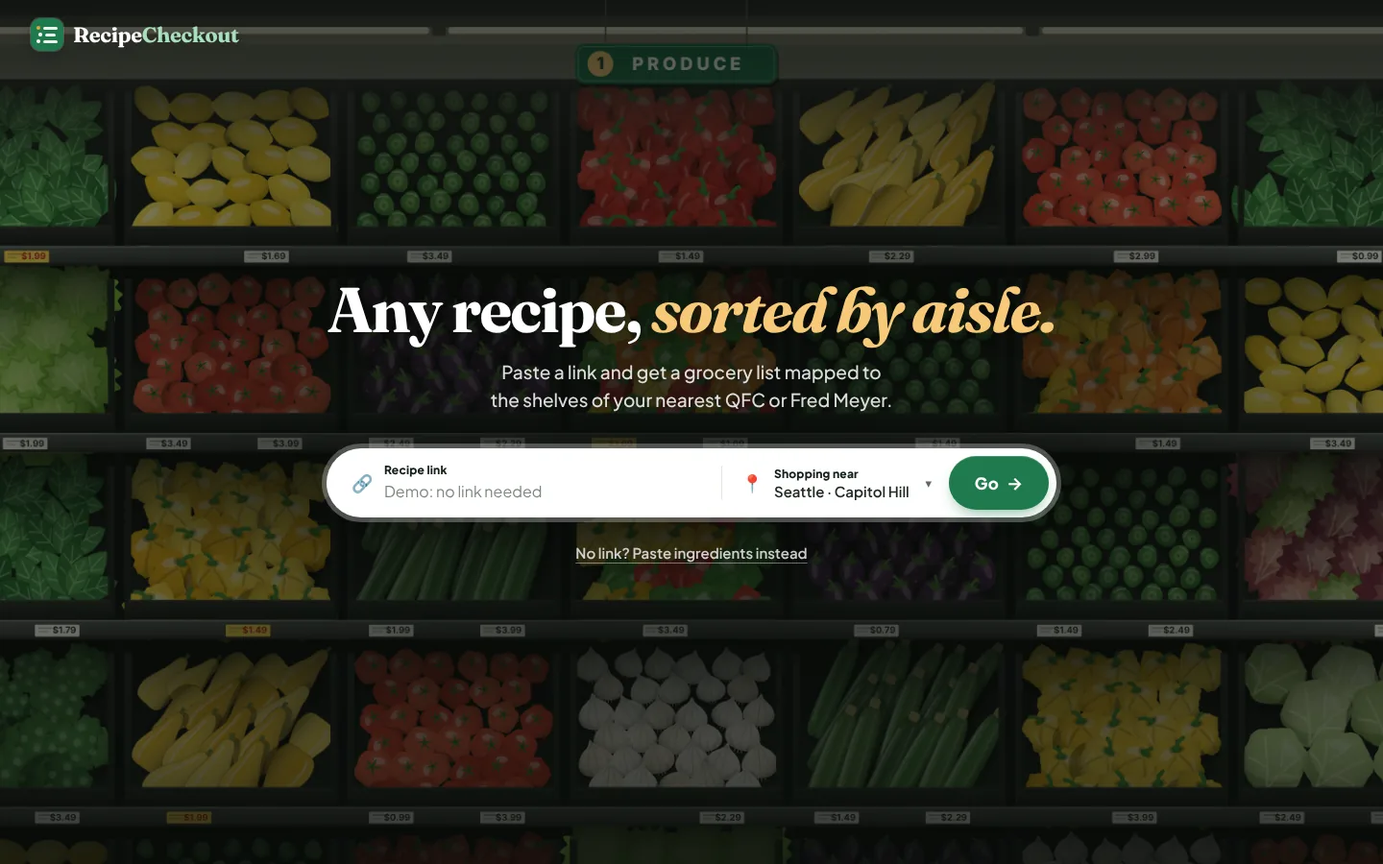
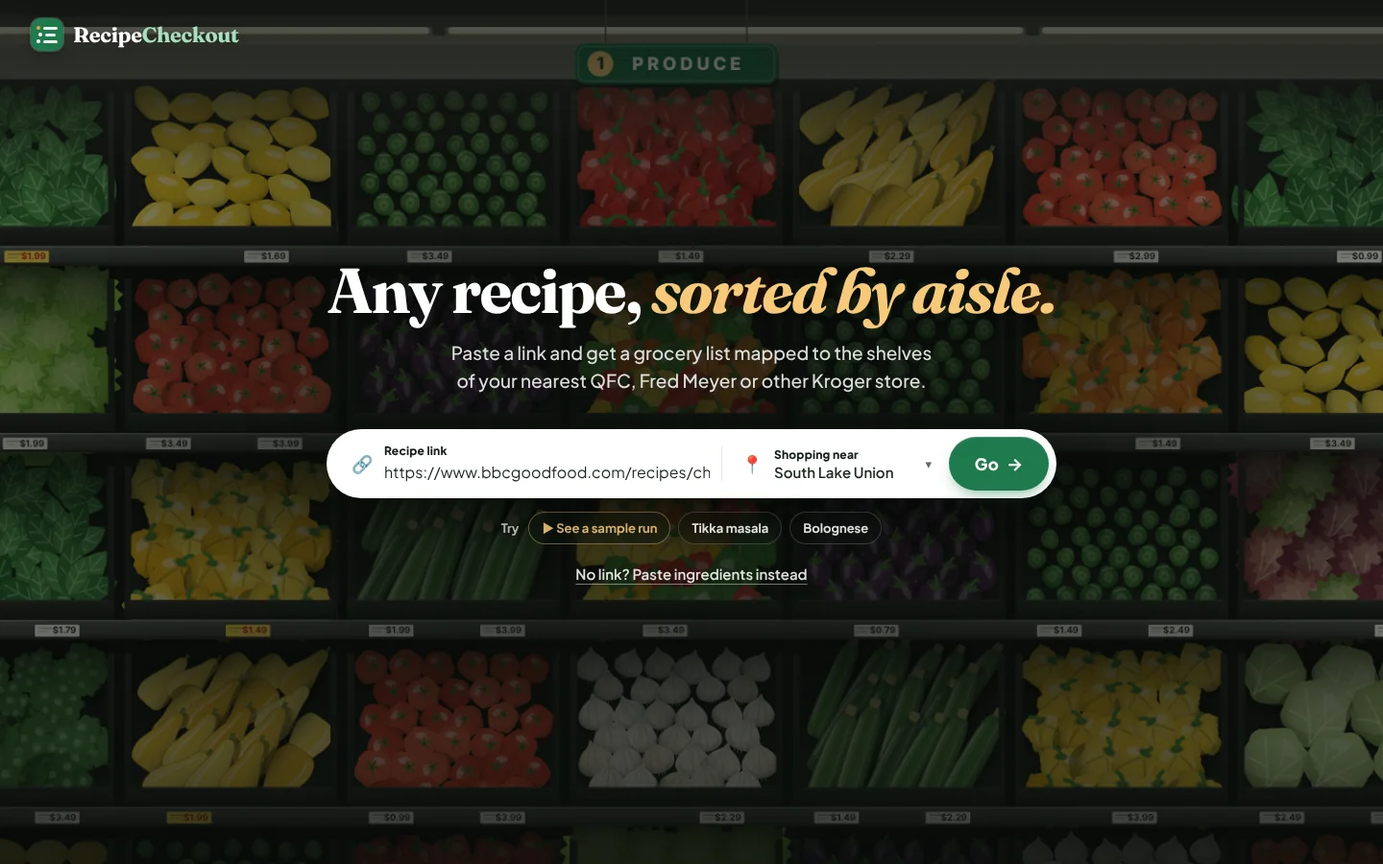
Deck: sync slides to the re-recorded South Lake Union demo run
Claude-Session: https://claude.ai/code/session_01AJf85JmqzvYmp3L4rD7mge

Changed region(s): [[0.2188, 0.3111, 0.7812, 0.6844]]

diff --git a/public/pitch/index.html b/public/pitch/index.html
@@ -433,6 +433,7 @@ h2 em,h1 em{font-weight:700;color:var(--green)}
 .cartbtn{display:flex;align-items:center;gap:12px;border:2.5px dashed var(--green-2);color:var(--green-dk);background:#F2F8F3;border-radius:999px;padding:14px 22px;font:800 24px/1 var(--sans);white-space:nowrap}
 .cartbtn svg{width:28px;height:28px;flex:none}
 .listp .cartnext small{font:600 19px/1.2 var(--sans);letter-spacing:0;color:var(--muted);text-align:right}
+.row .it .cm{display:inline-block;font:700 17px/1 var(--sans);font-style:normal;color:#7A5200;background:#FBF0DC;border:1.5px solid #F2D49A;border-radius:999px;padding:3px 8px;margin-left:6px;vertical-align:1px}
 .row .it .alt{display:inline-block;font:700 18px/1 var(--sans);font-style:normal;color:#7A5200;background:#FBF0DC;border-radius:999px;padding:4px 9px;margin-left:8px;vertical-align:2px}
 .stop.next .dot{border-style:dashed}
 .slide.active .stop.next .dot{background:rgba(247,201,120,.18);border-color:var(--saffron)}
@@ -512,7 +513,7 @@ body.notes-open #notes{transform:none}
       </div>
       <div class="f loc">
         <svg class="ico" viewBox="0 0 24 24"><path d="M12 22s7-6.2 7-12a7 7 0 1 0-14 0c0 5.8 7 12 7 12z" fill="#D9472B"/><circle cx="12" cy="10" r="2.6" fill="#fff"/></svg>
-        <div><small>Shopping near</small><div class="v">Seattle · Capitol Hill</div></div>
+        <div><small>Shopping near</small><div class="v" data-run="location">South Lake Union</div></div>
       </div>
       <div class="go" id="go">Go <svg width="26" height="26" viewBox="0 0 24 24" fill="none" stroke="#fff" stroke-width="3" stroke-linecap="round" stroke-linejoin="round"><path d="M5 12h14M13 6l6 6-6 6"/></svg></div>
     </div>
@@ -526,14 +527,14 @@ body.notes-open #notes{transform:none}
   <div class="cols">
     <div class="pains">
       <div class="pain" data-in="left" style="--d:.3s"><div class="n">1</div><div><h3>Cook-speak isn't store-speak</h3><p><q>150 ml double cream</q>, <q>coriander leaves</q>, <q>tikka masala paste</q>: which product is that, at <i>this</i> store?</p></div></div>
-      <div class="pain" data-in="left" style="--d:.45s"><div class="n">2</div><div><h3>Recipe order isn't aisle order</h3><p>Aisle 11, produce, aisle 5, produce again, meat, aisle 7, back to aisle 5…</p></div></div>
+      <div class="pain" data-in="left" style="--d:.45s"><div class="n">2</div><div><h3>Recipe order isn't aisle order</h3><p>Aisle 1, produce, meat, aisle 9, back to aisle 1, produce again…</p></div></div>
       <div class="pain" data-in="left" style="--d:.6s"><div class="n">3</div><div><h3>Price and stock are a surprise</h3><p>You find out it's out of stock, or the wrong jar, standing at the shelf.</p></div></div>
-      <div class="walk" data-in="pop" style="--d:.9s"><div class="x2">≈2<span class="times">×</span></div><div><b>the walking</b><span>Same <span data-run="items">11</span> items, recipe order vs aisle order, on this floor plan.</span></div></div>
+      <div class="walk" data-in="pop" style="--d:.9s"><div class="x2">≈2<span class="times">×</span></div><div><b>the walking</b><span>Same <span data-run="mapItems">9</span> items, recipe order vs aisle order, on this floor plan.</span></div></div>
     </div>
     <div class="mapcard" style="width:860px;--d:.2s" data-in="pop">
-      <div class="mh"><b>Tikka masala, shopped in recipe order</b><span class="chip" style="background:var(--tomato-soft);color:var(--tomato)"><span data-run="items">11</span>&nbsp;items</span></div>
+      <div class="mh"><b>Tikka masala, shopped in recipe order</b><span class="chip" style="background:var(--tomato-soft);color:var(--tomato)"><span data-run="mapItems">9</span>&nbsp;items</span></div>
       <div id="map-messy"></div>
-      <div class="cap">Illustrative floor plan · real aisles from <span data-run="store0">QFC Broadway Market</span></div>
+      <div class="cap">Illustrative floor plan · real aisles from <span data-run="store0">QFC Uptown</span></div>
     </div>
   </div>
 </section>
@@ -548,10 +549,10 @@ body.notes-open #notes{transform:none}
     <div class="arrow a1"><svg viewBox="0 0 60 30"><path d="M2 15h52M42 4l13 11-13 11"/></svg></div>
     <div class="mc ai"><div class="lab">✦ AI · shoppable intent</div><div class="x"><div class="term" id="m-term"></div><div class="meta" id="m-meta"></div></div></div>
     <div class="arrow a2"><svg viewBox="0 0 60 30"><path d="M2 15h52M42 4l13 11-13 11"/></svg></div>
-    <div class="mc prod"><div id="m-sign"></div><div class="pinfo x"><div class="lab" data-run="store0">QFC Broadway Market</div><div class="pn" id="m-pn"></div><div class="pd" id="m-pd"></div><div class="pr"><span class="price" id="m-price"></span><span id="m-stock"></span></div></div></div>
+    <div class="mc prod"><div id="m-sign"></div><div class="pinfo x"><div class="lab" data-run="store0">QFC Uptown</div><div class="pn" id="m-pn"></div><div class="pd" id="m-pd"></div><div class="pr"><span class="price" id="m-price"></span><span id="m-stock"></span></div></div></div>
   </div>
   <div class="dots" id="m-dots" data-in="fade" style="--d:.6s"></div>
-  <div class="fixcap" data-in="fade" style="--d:.7s">Real matches from a recorded run at <span data-run="store0">QFC Broadway Market</span>, Seattle</div>
+  <div class="fixcap" data-in="fade" style="--d:.7s">Real matches from a recorded run at <span data-run="store0">QFC Uptown</span>, Seattle</div>
 </section>
 
 <!-- 4 · HOW IT WORKS -->
@@ -570,15 +571,15 @@ body.notes-open #notes{transform:none}
       <div class="num gold">2</div>
       <h3>One AI call</h3>
       <p>Claude Haiku turns every line into a shoppable intent.</p>
-      <div class="code"><div class="s">"4 onions, roughly chopped"</div><dl><dt class="k">term</dt><dd>yellow onions</dd><dt class="k">dept</dt><dd>produce</dd><dt class="r">avoid</dt><dd>rings · soup · powder</dd><dt class="k">staple</dt><dd>no</dd></dl></div>
+      <div class="code"><div class="s">"4 onions roughly chopped"</div><dl><dt class="k">term</dt><dd>yellow onions</dd><dt class="k">dept</dt><dd>produce</dd><dt class="r">avoid</dt><dd>rings · soup · powder</dd><dt class="k">staple</dt><dd>no</dd></dl></div>
       <div class="foot"><span class="chip gold">⏱ ~6–9 s per recipe</span></div>
     </div>
     <div class="step" data-in style="--d:.65s">
       <div class="num">3</div>
       <h3>Live store catalog</h3>
       <p>Kroger's official API, every item in parallel: aisle or department, shelf where listed, price, stock.</p>
-      <div class="mprod"><div class="minis"><div class="sign"><span><small>AISLE</small><b>12</b><i>LEFT</i></span></div></div><div><b>Horizon Organic Heavy Whipping Cream</b><span>Left side · shelf 6</span><div class="r"><b>$7.99</b><span class="stock">In stock</span></div></div></div>
-      <div class="foot"><span class="chip">⏱ ~1–2 s per store</span></div>
+      <div class="mprod"><div class="minis"><div class="sign"><span><small>AISLE</small><b>1</b><i>LEFT</i></span></div></div><div><b>Horizon Organic Heavy Whipping Cream</b><span>Left side · shelf 5</span><div class="r"><b>$7.99</b><span class="stock">In stock</span></div></div></div>
+      <div class="foot"><span class="chip">⏱ ~2 s per store</span></div>
     </div>
     <div class="step" data-in style="--d:.85s">
       <div class="num">4</div>
@@ -599,14 +600,14 @@ body.notes-open #notes{transform:none}
       <h2 data-in style="--d:.08s">Same trip, <em>one clean loop.</em></h2>
       <div class="mapcard" data-in="pop" style="--d:.2s">
         <div id="map-clean"></div>
-        <div class="cap">Illustrative floor plan · real aisles from the recorded run</div>
+        <div class="cap">Illustrative floor plan · real aisles at <span data-run="store0">QFC Uptown</span></div>
       </div>
     </div>
     <div class="listp" data-in="right" style="--d:.3s">
-      <div class="store"><div class="qfc">QFC</div><div><b data-run="store0">QFC Broadway Market</b><span id="store0-meta">0.1 mi · 417 Broadway E, Seattle</span></div><div class="found" id="found"><i>✓</i><span>11 of 11 found<br>at the first store</span></div></div>
+      <div class="store"><div class="qfc">QFC</div><div><b data-run="store0">QFC Uptown</b><span id="store0-meta">0.5 mi · 500 Mercer St, Seattle</span></div><div class="found" id="found"><i>✓</i><span>11 of 11 found<br>9 here · +2 next store</span></div></div>
       <div class="bar"><span>IN WALKING ORDER</span><span><span data-run="items">11</span> ITEMS</span></div>
       <div id="rows"></div>
-      <div class="total"><div><small>ESTIMATED TOTAL</small><div class="big" id="total" data-count="54.79" data-prefix="$" data-dec="2">$54.79</div></div>
+      <div class="total"><div><small>ESTIMATED TOTAL</small><div class="big" id="total" data-count="58.20" data-prefix="$" data-dec="2">$58.20</div></div>
         <div class="cartnext" aria-label="Coming next, not built yet: send to pickup cart"><span class="nexttag">Next build · not live yet</span><div class="cartbtn"><svg viewBox="0 0 24 24" fill="none" stroke="currentColor" stroke-width="2.2" stroke-linecap="round" stroke-linejoin="round"><path d="M3 4h2l2.4 11.2a1.5 1.5 0 0 0 1.5 1.2h8.6a1.5 1.5 0 0 0 1.5-1.1L21 8H6.2"/><circle cx="9.5" cy="20" r="1.3"/><circle cx="17.5" cy="20" r="1.3"/></svg>Send to pickup cart</div><small>Kroger Cart API · pay with your card at pickup</small></div>
       </div>
     </div>
@@ -627,7 +628,7 @@ body.notes-open #notes{transform:none}
       <div class="lid"><div class="scr" id="lapscr"><a class="demo" href="https://recipecheckout.vercel.app/?demo=1&amp;clean=1" target="_blank" rel="noopener" aria-label="Open the live demo (recorded real run)"></a>
         <img class="on" src="/pitch/assets/desk-home.webp" alt="RecipeCheckout home: Any recipe, sorted by aisle, with a recipe link field and location">
         <img src="/pitch/assets/desk-review.webp" alt="Review screen: ingredient cards with pantry staples unchecked">
-        <img src="/pitch/assets/desk-results.webp" alt="Results: QFC Broadway Market list sorted by aisle with prices">
+        <img src="/pitch/assets/desk-results.webp" alt="Results: QFC Uptown list sorted by aisle with prices, plus 2 items from QFC Broadway Market">
       </div></div>
       <div class="base"></div>
     </div>
@@ -790,27 +791,28 @@ let cur = -1;
    Also check by hand: MORPH (slide 3 examples), the slide 4 sample
    product card (.mprod), and the screenshots in /pitch/assets/.
    ============================================================ */
-const RUN = {
+const RUN = {               // source: lib/client/demo-run.json + live /?demo=1&clean=1 results page
+  location: 'South Lake Union', // slide 1 search-bar mock
   ingredients: 12,          // lines in the recipe (slide 4 card)
-  items: 11,                // items shopped after pantry staples are unchecked
-  total: 54.79,             // estimated total, dollars
+  items: 11,                // items shopped after pantry staples are unchecked (vegetable oil)
+  total: 58.20,             // estimated total, dollars ($41.72 Uptown + $16.48 Broadway Market)
   stores: [                 // nearest first; found = items bought at that store
-    { name: 'QFC Broadway Market', logo: 'QFC', dist: '0.1 mi', addr: '417 Broadway E, Seattle', found: 11 },
-    { name: 'QFC Harvard Market',  logo: 'QFC', dist: '0.5 mi', found: 0 },
-    { name: 'QFC Uptown',          logo: 'QFC', dist: '1.2 mi', found: 0 },
+    { name: 'QFC Uptown',          logo: 'QFC', dist: '0.5 mi', addr: '500 Mercer St, Seattle', found: 9 },
+    { name: 'QFC Broadway Market', logo: 'QFC', dist: '0.7 mi', found: 2 },
+    { name: 'QFC Harvard Market',  logo: 'QFC', dist: '1.1 mi', found: 0 },
   ],
 };
-/* Slide 5 rows, in walking order: [kind, sign value, sign label, item(s), product(s), price, map keys, storeIndex?]
+/* Slide 5 rows, in walking order: [kind, sign value, sign label, item(s), product(s) (HTML ok), price, map keys, storeIndex?]
    kind: 'sign' (aisle) | 'wall' | 'meat' | 'veg'. storeIndex (optional, default 0) marks an item that
-   fell through to RUN.stores[i]; it gets a small "from <store>" tag. Map keys must exist in ITEMS below. */
+   fell through to RUN.stores[i]; it gets a small "from <store>" tag and no map pin (the map is store 0).
+   Map keys must exist in ITEMS below; the clean route's pin order follows these rows. */
 const ROWS = [
-  ['sign','5','LEFT','Tikka masala paste · Mango chutney',"Patak's simmer sauce · Indianlife chutney",'$16.48',['paste','chutney']],
-  ['sign','7','RIGHT','Diced tomatoes · Tomato purée','Kroger petite diced · Hunt’s purée','$3.78',['tomatoes','puree']],
-  ['sign','11','LEFT','Butter','Kroger salted butter sticks','$7.99',['butter']],
-  ['sign','12','LEFT','Heavy cream','Horizon Organic heavy whipping cream','$7.99',['cream']],
-  ['wall','🧱','Back wall','Plain yogurt','Mountain High plain yogurt tub','$5.49',['yogurt']],
+  ['veg','🥬','Produce','Onions · Red pepper · Cilantro','Jumbo onions · hothouse pepper · organic cilantro','$4.98',['onions','pepper','cilantro']],
+  ['sign','1','LEFT','Butter · Heavy cream · Yogurt','Kroger butter · Horizon Organic cream · Mountain High','$21.47',['butter','cream','yogurt']],
+  ['sign','9','RIGHT','Diced tomatoes · Tomato purée','Kroger petite diced · Cento purée','$7.78',['tomatoes','puree']],
   ['meat','🥩','Meat','Chicken breasts','Simple Truth natural chicken breasts','$7.49',['chicken']],
-  ['veg','🥬','Produce','Onions · Red pepper · Cilantro','Jumbo yellow onions · organic bell pepper','$5.57',['onions','pepper','cilantro']],
+  ['sign','5','LEFT','Tikka masala paste',"Patak's simmer sauce <em class=\"cm\">Closest match</em>",'$6.49',[],1],
+  ['sign','5','LEFT','Mango chutney','Indianlife medium mango chutney','$9.99',[],1],
 ];
 const S0 = RUN.stores[0];
 const money = v => '$' + v.toFixed(2);
@@ -826,12 +828,12 @@ const NOTES = [
   "Hi, we're RecipeCheckout: <b>any recipe, sorted by aisle.</b> Paste a recipe link and every ingredient is located at your nearest grocery store, with live price and stock.",
   "Recipes are written for cooks, not stores. Which product is \"double cream\" here? And recipe order isn't aisle order: this red line is that trip, <b>about twice the walking</b>. Then you find out it's out of stock at the shelf." +
     "<span class=\"qa\">If asked: ≈2× = the two routes measured on this illustrative plan ({LM} vs {LC} units); the aisles are real.</span>",
-  "So: <b>paste a recipe, walk the store once.</b> Take \"150 ml double cream\". The AI makes it heavy cream, in dairy, never whipped topping or creamer. Then we find the real product at your store: aisle 12, left side, shelf 6, $7.99, in stock.",
+  "So: <b>paste a recipe, walk the store once.</b> Take \"150 ml double cream\". The AI makes it heavy cream, in dairy, never whipped topping or creamer. Then we find the real product at your store: aisle 1, left side, shelf 5, $7.99, in stock.",
   "Four steps. We read the recipe, with fallbacks for sites that block bots. <b>One</b> Claude Haiku call turns every line into a search term. Kroger's API searches your nearest store, all items in parallel. We sort by aisle, and misses fall through to the next store.",
-  `Same recipe, one clean loop. A <b>real recorded run</b>${fellThrough.length ? '' : ` at ${S0.name}`}: ${foundAll} of ${RUN.items} found, ${splitText}, about ${money(RUN.total)}. That dashed button is our next build.`,
+  `Same recipe, one clean loop. A <b>real recorded run</b>${fellThrough.length ? '' : ` at ${S0.name}`}: ${foundAll} of ${RUN.items} found, ${splitText}, about ${money(RUN.total)}. The simmer sauce is flagged "closest match". That dashed button is our next build.`,
   `<span class="cue">[Click the laptop or press D to open the <a href="${DEMO_URL}" target="_blank" rel="noopener">demo replay</a>. Backup: press V for the <a href="/demo" target="_blank" rel="noopener">/demo video</a>. About 30 s.]</span> ` +
     "It's live. This is a replay of a real run, so it's fast and wifi-proof. Start a list… check ingredients: pantry staples start unchecked… find in stores… and here's the list, by aisle, with price and stock. Scan the code to run any recipe. No sign-up.",
-  `Two numbers: <b>one AI call per recipe, about a tenth of a cent</b>, and 97% of about 120 products we searched at ${S0.name} had a shelf location. Blocked sites fall through to Wayback, a reader proxy, then paste.` +
+  `Two numbers: <b>one AI call per recipe, about a tenth of a cent</b>, and 97% of about 120 products we searched at QFC Broadway Market had a shelf location. Blocked sites fall through to Wayback, a reader proxy, then paste.` +
     "<span class=\"qa\">If asked, stack: Expo Router + React Native Web, Vercel functions, Kroger Locations &amp; Products APIs, Claude Haiku 5.5 via OpenRouter, offline demo replay. Product picking is rules, not AI: term words, avoid words, department, aisle, stock.</span>",
   "For Visa's <b>Reimagine Shopping</b>: discovery starts from a recipe, decisions get the right product with live price and stock, and it's personal to your store and pantry. Checkout, honestly: today it's an estimated total. Our first build after DubHacks is <b>Send to pickup cart</b> through Kroger's public Cart API; you pay with your card at pickup.",
   "Our user: the home cook who finds recipes online. Revenue: \"shop this recipe\" links for creators, clearly labelled sponsored swaps, and affiliate fees on pickup orders. Creators are distribution. <b>Next to validate:</b> will creators add the link, and will grocers pay?",
@@ -847,7 +849,7 @@ window.__NOTES_WORDS__ = (() => {
 /* fill RUN numbers into the slides */
 document.querySelectorAll('[data-run]').forEach(el => {
   const k = el.dataset.run;
-  el.textContent = k === 'store0' ? S0.name : RUN[k];
+  el.textContent = k === 'store0' ? S0.name : k === 'mapItems' ? S0.found : RUN[k];
 });
 document.getElementById('runs').innerHTML = RUN.stores.map((st, i) =>
   `<div class="run${st.found ? '' : ' dim'}"><span class="q">${st.logo}</span><div><b>${st.name}</b><em>${st.dist} · ` +
@@ -868,11 +870,15 @@ function qrSVG(){
 document.querySelectorAll('[data-qr]').forEach(el => el.innerHTML = qrSVG());
 
 /* ---------- store map (shared by slides 2 and 5) ---------- */
-const AX = k => 90 + (k - 1) * 56;
-const ITEMS = { // positions on the illustrative floor plan (aisles and sections from the recorded run)
-  butter:[650,325], onions:[850,612], paste:[314,250], pepper:[780,612], chicken:[885,290], tomatoes:[426,205],
-  puree:[426,255], chutney:[314,200], cream:[706,140], yogurt:[800,90], cilantro:[710,612]
+const AX = k => 146 + (k - 1) * 56;
+const ITEMS = { // pins on the illustrative floor plan; aisles/sections are the real ones at RUN.stores[0] (QFC Uptown)
+  onions:[88,430], pepper:[88,330], cilantro:[88,230],          // produce (left wall)
+  butter:[146,200], cream:[146,300], yogurt:[146,400],          // aisle 1
+  tomatoes:[594,400], puree:[594,300],                          // aisle 9
+  chicken:[885,290]                                             // meat (right wall)
 };
+const RECIPE_ORDER = ['butter','onions','pepper','chicken','tomatoes','puree','cream','yogurt','cilantro']; // store-0 items in recipe order
+const HIT_AISLES = [1, 9];
 function roundedPath(pts, r){
   let d = `M${pts[0][0]} ${pts[0][1]}`;
   for (let i = 1; i < pts.length - 1; i++){
@@ -888,30 +894,31 @@ function roundedPath(pts, r){
 }
 function mapSVG(kind){
   const clean = kind === 'clean';
-  const hit = [5,7,11,12];
+  const hit = HIT_AISLES;
   let s = `<svg class="map" viewBox="0 0 1000 720" aria-hidden="true">`;
   s += `<rect class="m-floor" x="2" y="2" width="996" height="716" rx="26"/>`;
   s += `<rect class="m-back" x="20" y="18" width="960" height="50" rx="12"/><text class="m-lbl" x="40" y="50" fill="#6E6150">BACK WALL</text>`;
   s += `<rect class="m-meat" x="922" y="84" width="58" height="400" rx="12"/><text class="m-lbl" fill="#9F2A1C" transform="translate(958 284) rotate(90)" text-anchor="middle">MEAT</text>`;
-  s += `<rect class="m-veg" x="680" y="556" width="300" height="146" rx="16"/><text class="m-lbl" fill="#1E6B3A" x="830" y="686" text-anchor="middle">PRODUCE</text>`;
-  for (const [cx,c] of [[740,'#9BCB8F'],[812,'#E9A0A0'],[884,'#F2D27A'],[950,'#9BCB8F']]) s += `<ellipse cx="${cx}" cy="648" rx="26" ry="9" fill="${c}" opacity=".55"/>`;
-  for (let g = 0; g <= 14; g++) s += `<rect class="m-shelf" x="${62+56*g-8}" y="112" width="16" height="352" rx="5"/>`;
+  s += `<rect class="m-veg" x="20" y="84" width="50" height="400" rx="12"/><text class="m-lbl" fill="#1E6B3A" transform="translate(45 284) rotate(-90)" text-anchor="middle">PRODUCE</text>`;
+  for (const [cy,c] of [[132,'#9BCB8F'],[436,'#E9A0A0']]) s += `<ellipse cx="45" cy="${cy}" rx="9" ry="22" fill="${c}" opacity=".55"/>`;
+  for (let g = 0; g <= 13; g++) s += `<rect class="m-shelf" x="${110+56*g}" y="112" width="16" height="352" rx="5"/>`;
   let labels = '';
-  for (let k = 1; k <= 14; k++){
+  for (let k = 1; k <= 13; k++){
     const cls = hit.includes(k) ? (clean ? 'hit' : 'miss') : '';
     labels += `<g class="m-al ${cls}"><rect x="${AX(k)-15}" y="476" width="30" height="24" rx="6"/><text x="${AX(k)}" y="493">${k}</text></g>`;
   }
   s += `<rect class="m-door" x="22" y="626" width="112" height="74" rx="14"/><text class="m-lbl" x="78" y="670" fill="#8A8F84" text-anchor="middle" style="font-size:15px">ENTER</text>`;
-  for (let i = 0; i < 4; i++) s += `<rect class="m-reg" x="${300+78*i}" y="592" width="48" height="58" rx="9"/>`;
-  s += `<text class="m-lbl" x="453" y="686" fill="#8A8F84" text-anchor="middle" style="font-size:15px">CHECKOUT</text>`;
+  for (let i = 0; i < 4; i++) s += `<rect class="m-reg" x="${520+78*i}" y="592" width="48" height="58" rx="9"/>`;
+  s += `<text class="m-lbl" x="661" y="686" fill="#8A8F84" text-anchor="middle" style="font-size:15px">CHECKOUT</text>`;
+  s += `<rect class="m-door" x="866" y="626" width="112" height="74" rx="14"/><text class="m-lbl" x="922" y="670" fill="#8A8F84" text-anchor="middle" style="font-size:15px">EXIT</text>`;
 
   let pts, order;
-  if (clean){
-    pts = [[78,626],[78,525],[314,525],[314,90],[426,90],[426,525],[644,525],[644,320],[656,320],[656,525],[706,525],[706,90],[885,90],[885,612],[600,612]];
-    order = ['paste','chutney','tomatoes','puree','butter','cream','yogurt','chicken','onions','pepper','cilantro'];
-  } else {
-    pts = [[78,626],[78,532],[644,532],[644,325],[656,325],[656,520],[850,520],[850,612],[838,612],[838,544],[320,544],[320,250],[308,250],[308,556],[780,556],[780,612],[885,612],[885,290],[873,290],[873,512],[432,512],[432,205],[420,205],[420,255],[420,98],[314,98],[314,200],[326,200],[326,82],[706,82],[706,140],[718,140],[718,82],[897,82],[897,600],[600,600]];
-    order = ['butter','onions','paste','pepper','chicken','tomatoes','puree','chutney','cream','yogurt','cilantro'];
+  if (clean){ // aisle order, as the app lists QFC Uptown: produce → aisle 1 → aisle 9 → meat → checkout
+    pts = [[88,650],[88,90],[146,90],[146,525],[594,525],[594,90],[885,90],[885,560],[700,560],[700,600]];
+    order = ROWS.filter(r => !r[7]).flatMap(r => r[6]);
+  } else {    // recipe order
+    pts = [[88,650],[88,540],[140,540],[140,200],[152,200],[152,532],[100,532],[100,430],[100,330],[100,98],[880,98],[880,290],[870,290],[870,540],[600,540],[600,400],[600,300],[600,82],[158,82],[158,300],[158,400],[158,548],[76,548],[76,230],[90,230],[90,556],[700,556],[700,600]];
+    order = RECIPE_ORDER;
   }
   const d = roundedPath(pts, clean ? 18 : 14);
   if (clean){
@@ -982,7 +989,7 @@ function playRoute(slide, dur){
     head.setAttribute('cx', pt.x); head.setAttribute('cy', pt.y);
     head.style.opacity = t > 0 && t < 1 ? 1 : 0;
     pins.forEach((p,i) => p.classList.toggle('on', t >= at[i] - 0.004));
-    rows.forEach(r => { const ks = r.dataset.keys.split(' '); const firstPin = pins.find(p => p.dataset.k === ks[0]); r.classList.toggle('on', firstPin && t >= at[pins.indexOf(firstPin)] - 0.004); });
+    rows.forEach(r => { const ks = r.dataset.keys.split(' '); const firstPin = pins.find(p => p.dataset.k === ks[0]); r.classList.toggle('on', firstPin ? t >= at[pins.indexOf(firstPin)] - 0.004 : t >= 0.999); });
   };
   if (RM){ set(1); return; }
   const ease = t => t < .5 ? 2*t*t : 1 - Math.pow(-2*t+2, 2)/2;
@@ -1032,11 +1039,11 @@ function typeUrl(){
 }
 
 /* ---------- slide 3: recipe line → intent → product ---------- */
-const MORPH = [
-  {raw:'150ml <mark>double cream</mark>', term:'heavy cream', meta:['🧈 dairy'], avoid:['whipped topping','creamer','sour'], pn:'Horizon Organic Heavy Whipping Cream', pd:'1 pt · Left side · shelf 6', price:'$7.99', stock:true, sign:['sign','12','LEFT']},
-  {raw:'chopped <mark>coriander leaves</mark>, to serve', term:'cilantro', meta:['🥬 produce'], avoid:['seeds','dried','soap'], pn:'Cilantro', pd:'1 ct · Produce section', price:'$1.29', stock:true, sign:['veg','🥬','Produce']},
-  {raw:'2 x 400g cans <mark>chopped tomatoes</mark>', term:'diced tomatoes', meta:['🥫 pantry'], avoid:['sauce','paste','soup'], pn:'Kroger® Petite Diced Tomatoes in Tomato Juice', pd:'14.5 oz · Right side · shelf 7', price:'$1.29', stock:true, sign:['sign','7','RIGHT']},
-  {raw:'8 boneless, skinless <mark>chicken breasts</mark> cut into 2.5cm cubes', term:'chicken breasts', meta:['🥩 meat'], avoid:['broth','seasoning','nuggets'], pn:'Simple Truth Natural Chicken Breasts', pd:'1 lb · Meat department', price:'$7.49', stock:true, sign:['meat','🥩','Meat']},
+const MORPH = [ // real picks at QFC Uptown in the recorded run (lib/client/demo-run.json)
+  {raw:'150ml <mark>double cream</mark>', term:'heavy cream', meta:['🧈 dairy'], avoid:['whipped topping','creamer','sour'], pn:'Horizon Organic Heavy Whipping Cream', pd:'1 pt · Left side · shelf 5', price:'$7.99', stock:true, sign:['sign','1','LEFT']},
+  {raw:'chopped <mark>coriander leaves</mark>, to serve', term:'cilantro', meta:['🥬 produce'], avoid:['seeds','dried','soap'], pn:'Organic Cilantro', pd:'1 ct · Produce section', price:'$1.99', stock:true, sign:['veg','🥬','Produce']},
+  {raw:'2 x 400g cans <mark>chopped tomatoes</mark>', term:'diced tomatoes', meta:['🥫 pantry'], avoid:['sauce','paste','soup'], pn:'Kroger® Petite Diced Tomatoes in Tomato Juice', pd:'14.5 oz · Right side · shelf 5', price:'$1.29', stock:true, sign:['sign','9','RIGHT']},
+  {raw:'8 boneless, skinless <mark>chicken breasts</mark> cut into 2.5cm cubes', term:'chicken breasts', meta:['🥩 meat'], avoid:['broth','seasoning','nuggets'], pn:'Simple Truth Natural Chicken Breasts', pd:'1 lb · Meat · Right side · shelf 2', price:'$7.49', stock:true, sign:['meat','🥩','Meat']},
 ];
 const morph = document.getElementById('morph');
 const mdots = document.getElementById('m-dots');
